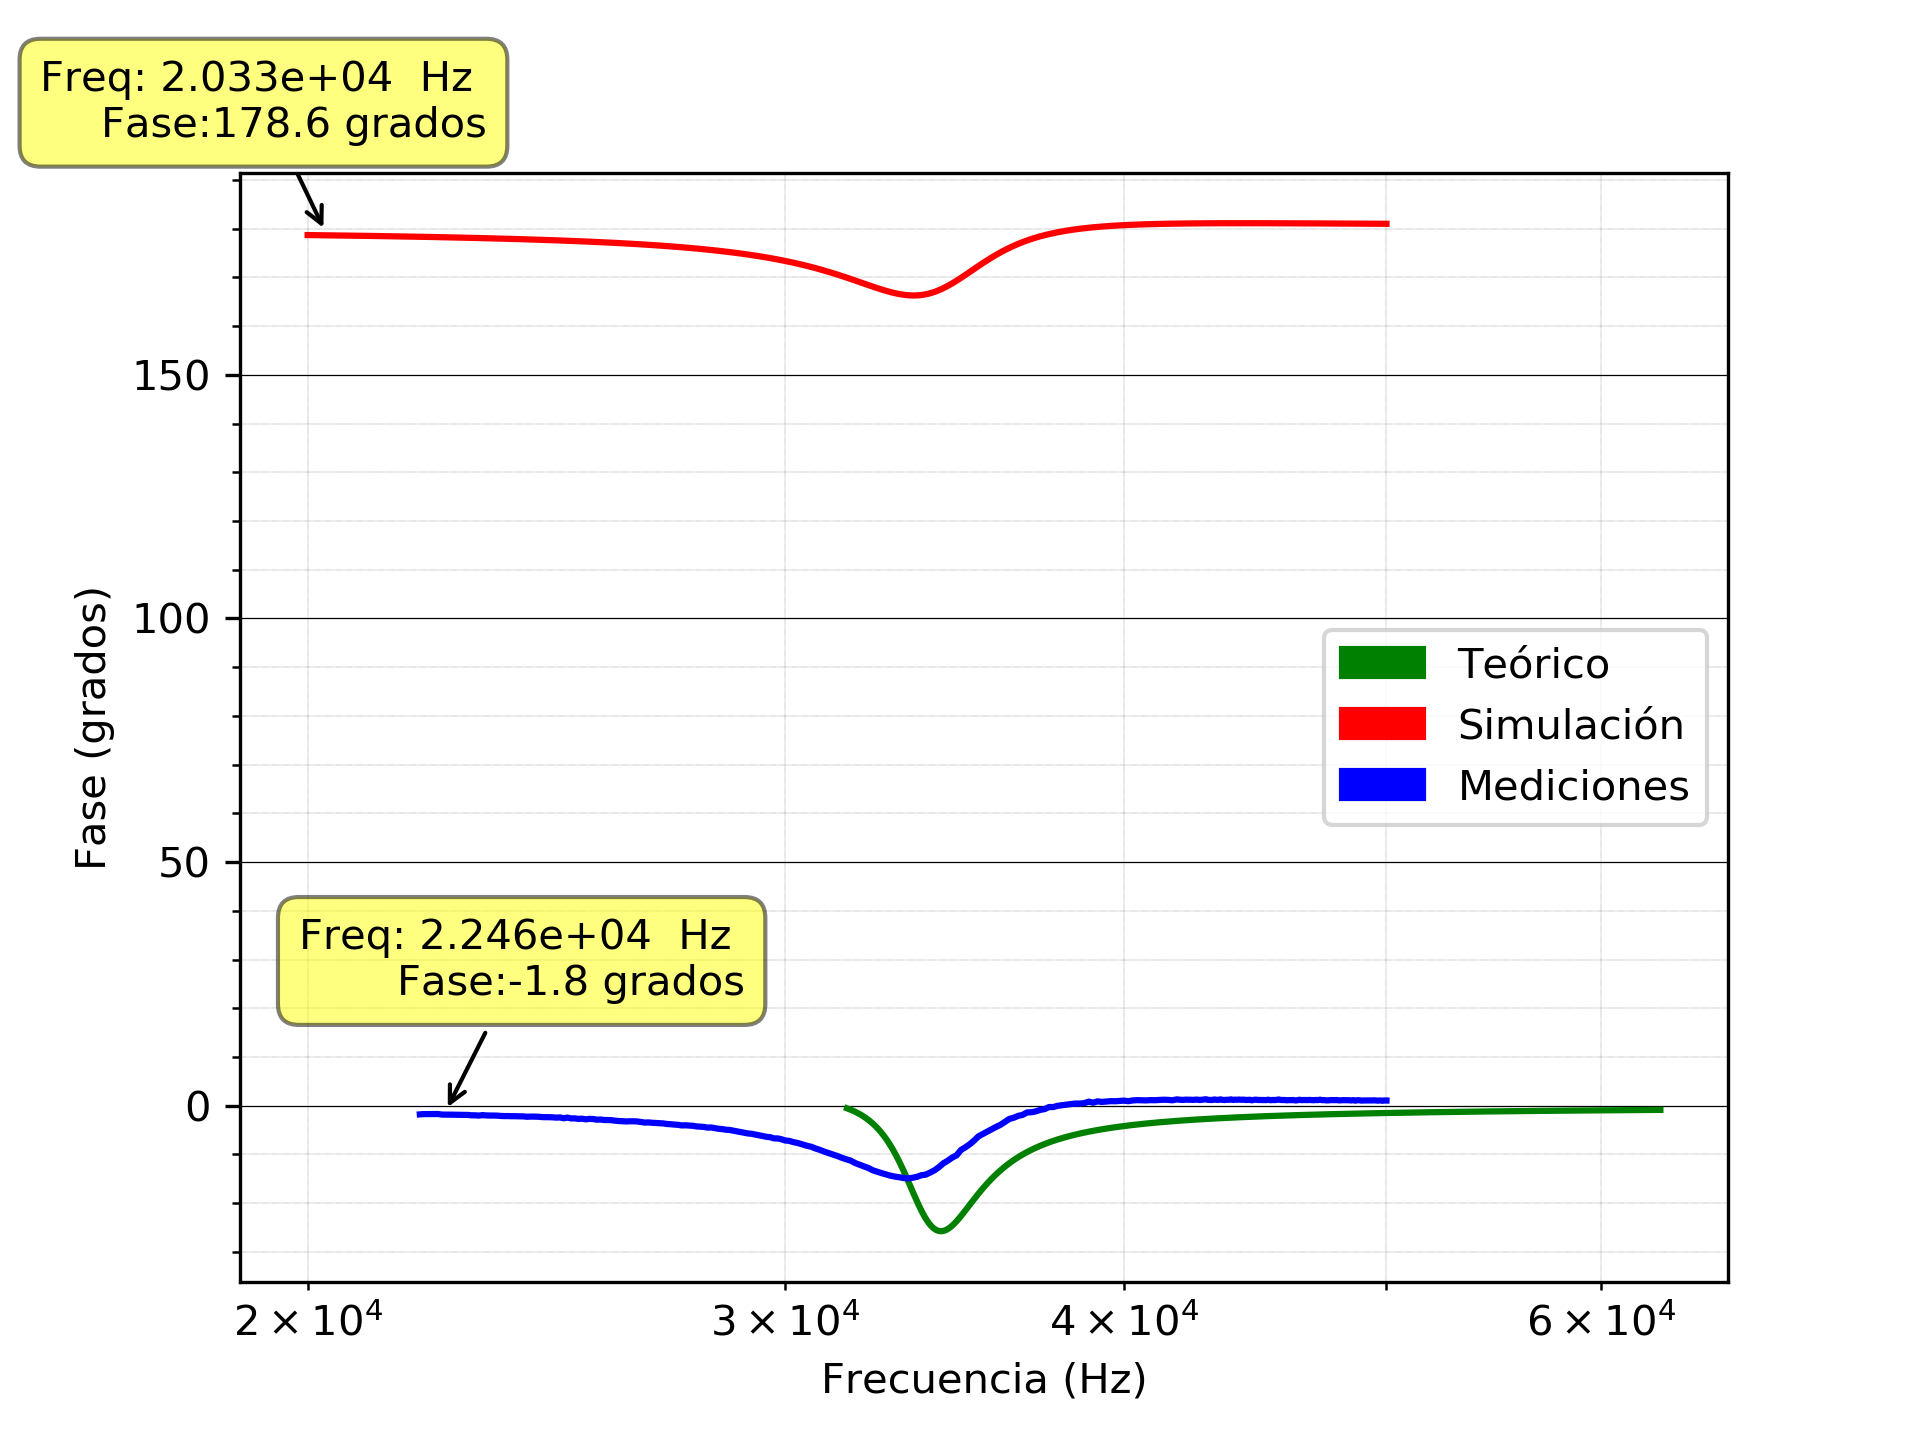
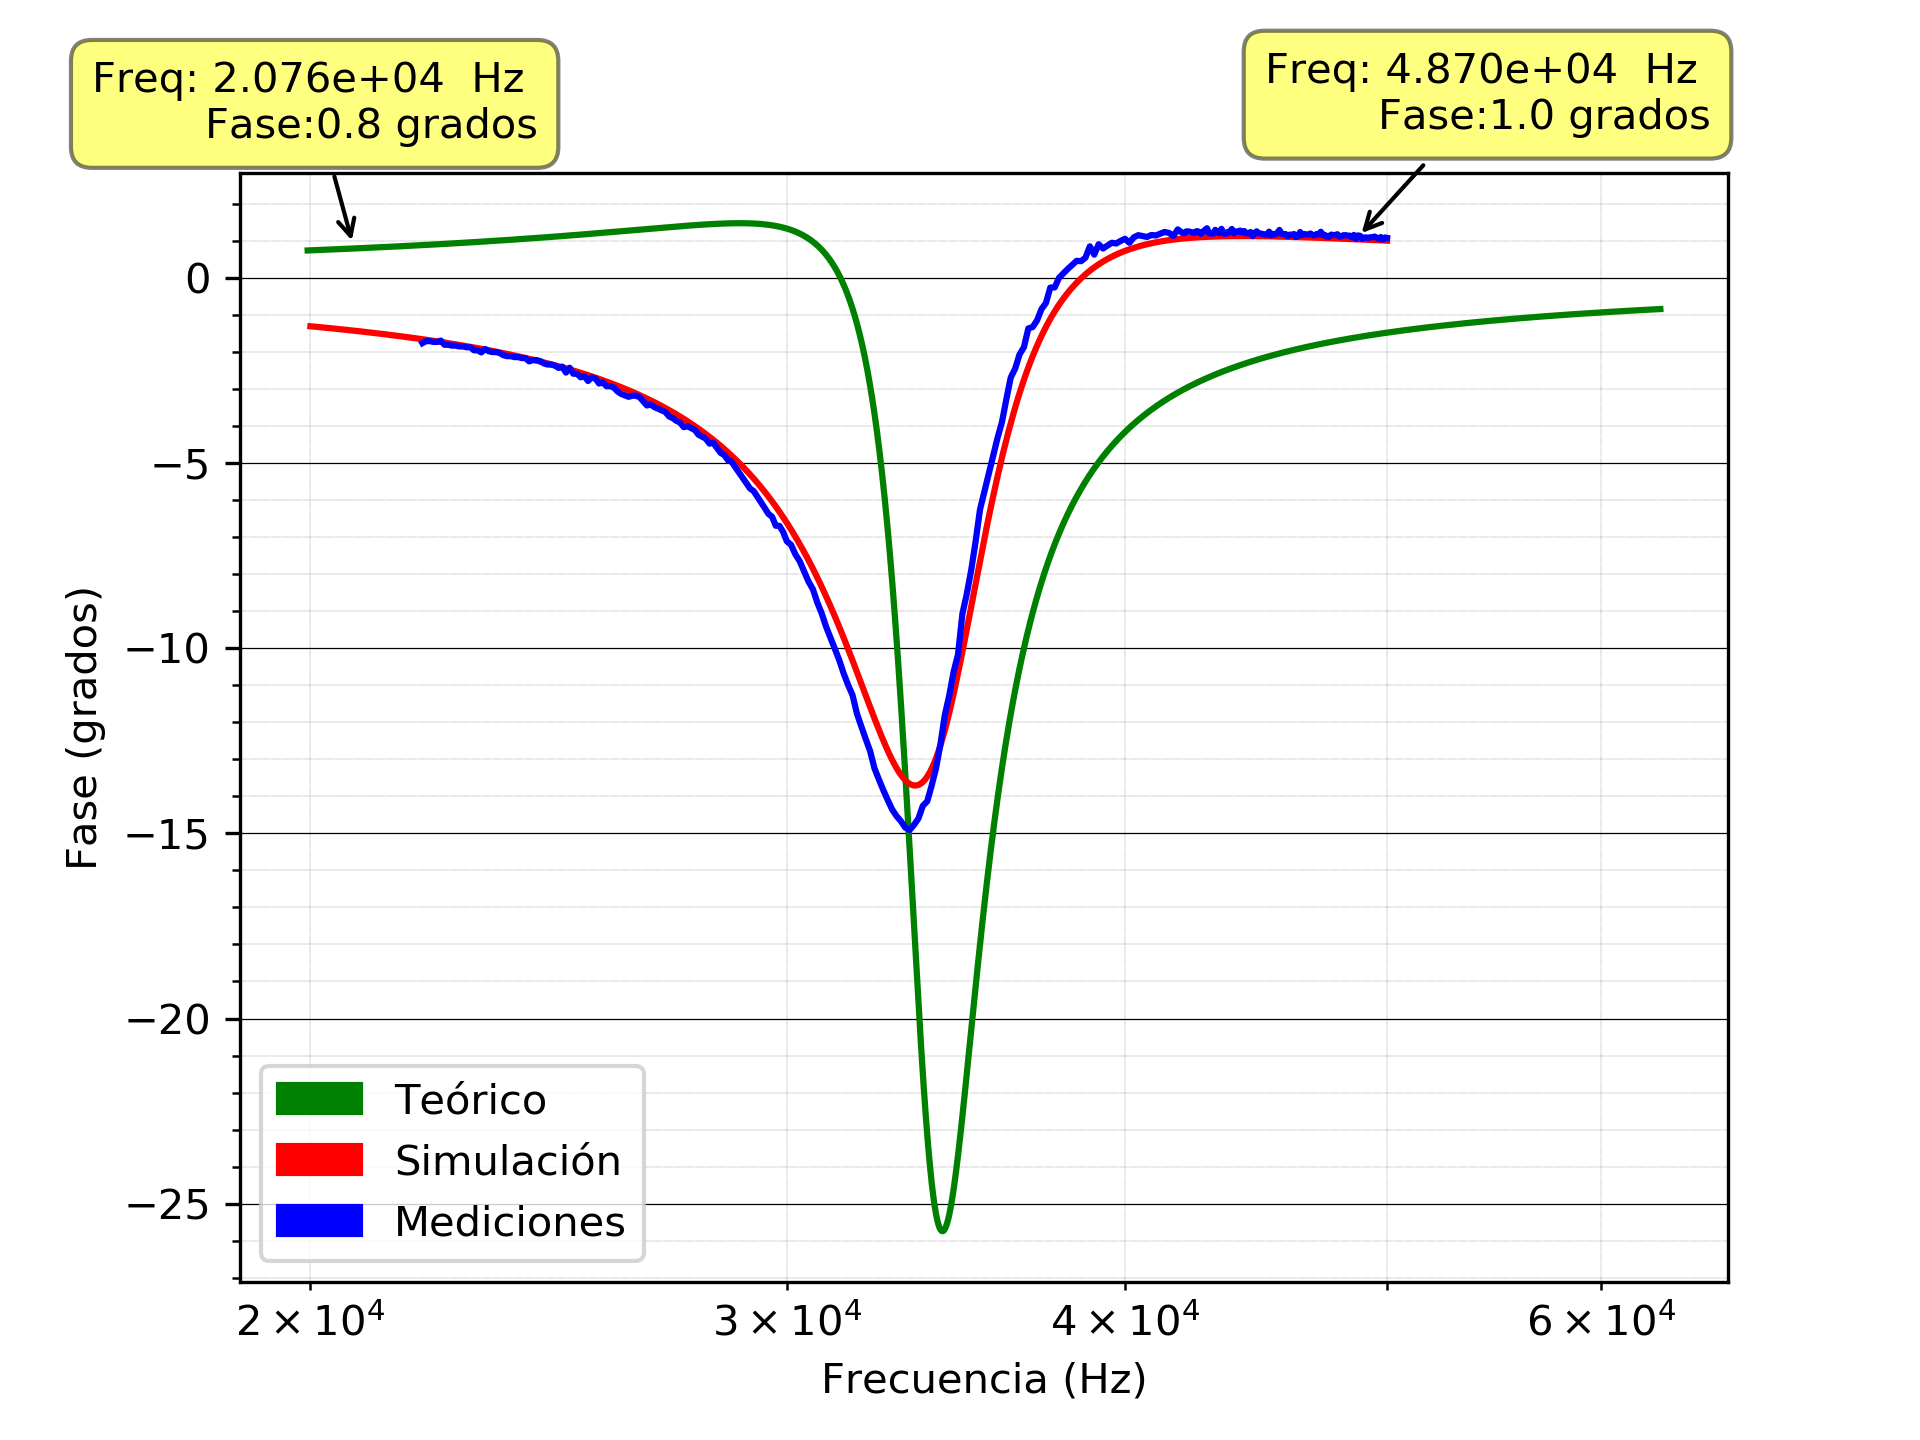
Add

diff --git a/TP5/EJ2/main.py b/TP5/EJ2/main.py
@@ -12,7 +12,7 @@ import read_csv
 import read_xls
 import transfer
 
-f_range = np.logspace(4.5, 4.8, 10000)
+f_range = np.logspace(4.3, 4.8, 10000)
 w_range = [2 * pi * i for i in f_range]
 
 
@@ -52,7 +52,7 @@ def plot_mediciones(mode, mediciones_filename, spice_filename, output_filename, 
             for i in range(len(data_spice["pha"])):
                 if data_spice["pha"][i] < 0:
                     data_spice["pha"][i] += 360.0
-
+                data_spice["pha"][i] -= 180
             ax1.semilogx(data_spice["f"], data_spice["pha"], "red")
 
         patches.append(mpatches.Patch(color="red", label="Simulación"))
@@ -112,13 +112,13 @@ plantilla_points = [
 #                 output_filename="H_pha.png",
 #                 my_tf=transfer.tf
 # )
-plot_mediciones(mode="mag",
-                mediciones_filename="Zin.xlsx",
-                spice_filename="Zin.txt",
-                output_filename="Zin_mag.png",
-                my_tf=transfer.tfZin,
-                zin=True
-)
+# plot_mediciones(mode="mag",
+#                 mediciones_filename="Zin.xlsx",
+#                 spice_filename="Zin.txt",
+#                 output_filename="Zin_mag.png",
+#                 my_tf=transfer.tfZin,
+#                 zin=True
+# )
 plot_mediciones(mode="pha",
                 mediciones_filename="Zin.xlsx",
                 spice_filename="Zin.txt",
